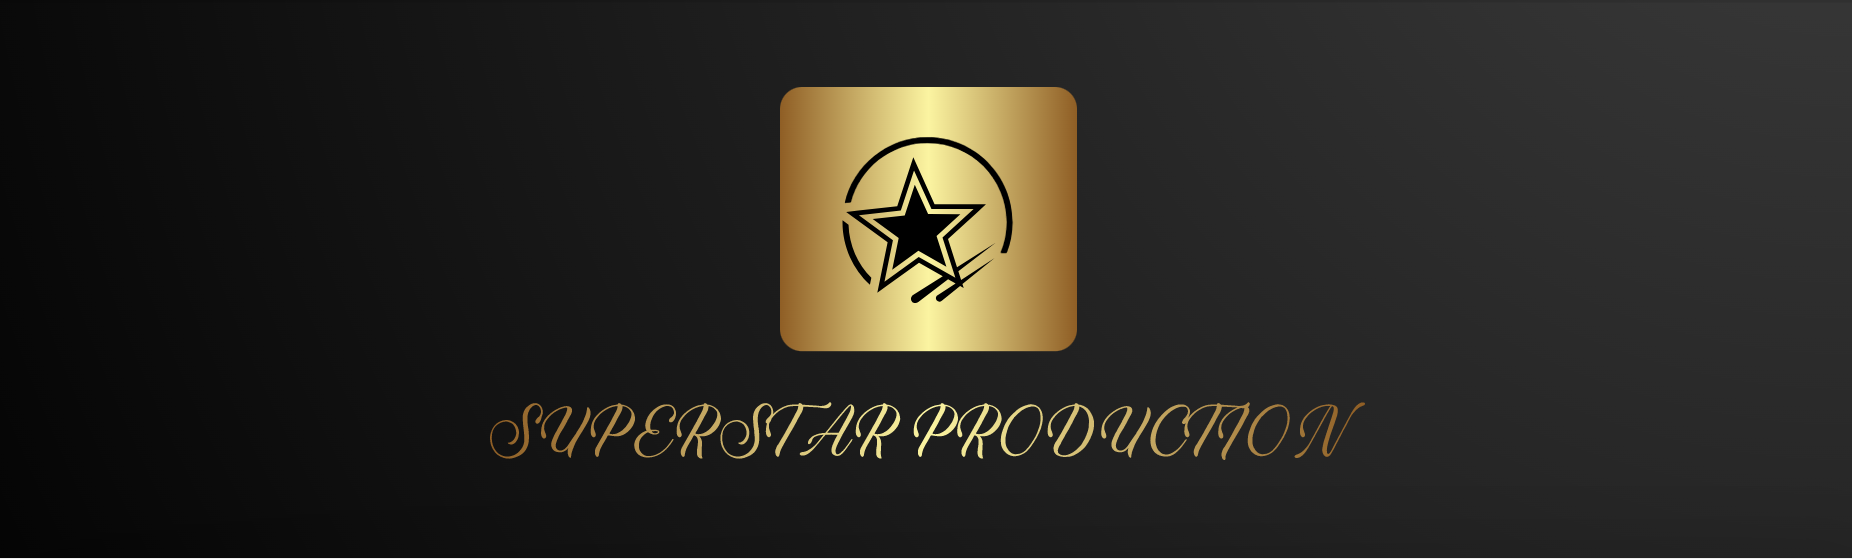
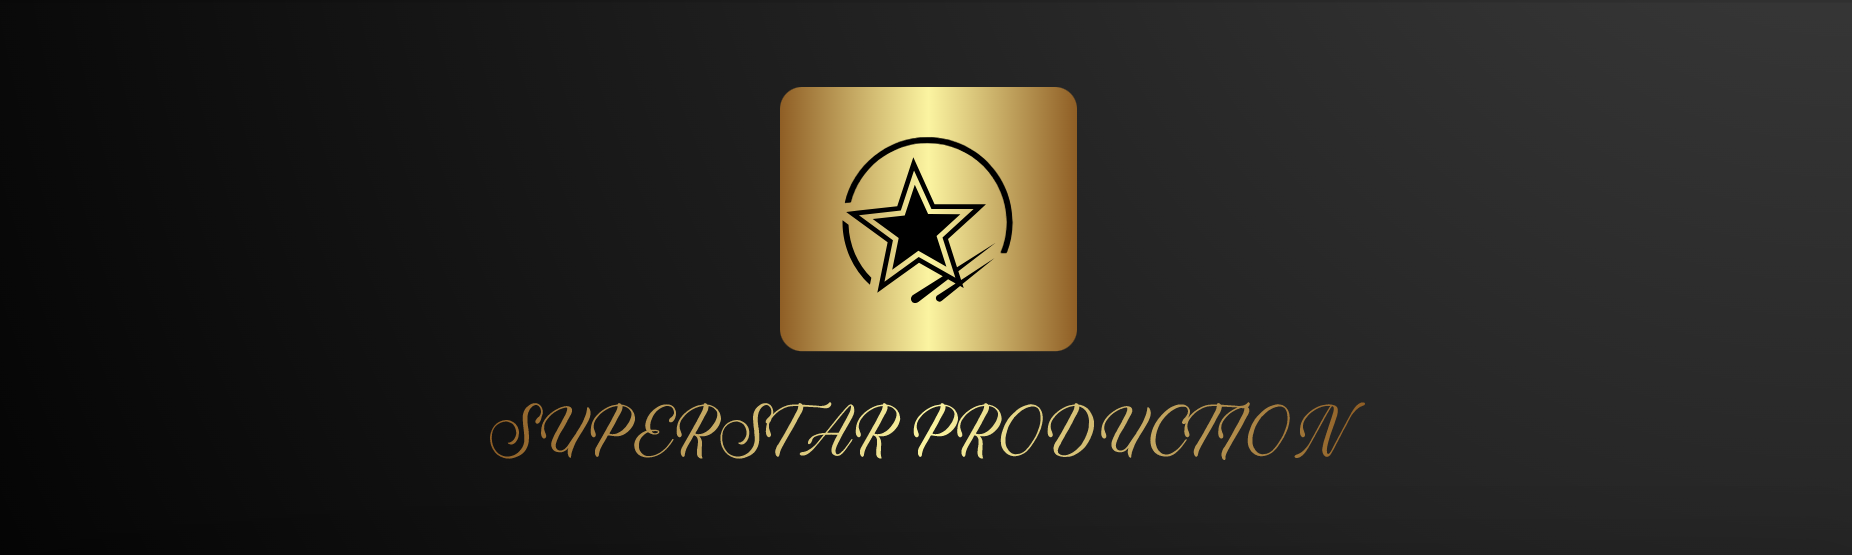
little changes to button and main brand picture

diff --git a/dist/index.html b/dist/index.html
@@ -150,7 +150,7 @@
         <div class="subscribe container">
           <div class="subscribe__body">
             <div class="subscribe__logo">
-              <img src="./img/logo.png" alt="" class="subscribe__logo">
+              <img src="./img/star-logo.svg" alt="" class="subscribe__logo">
             </div>
             <div class="subscribe__label">
               <h2>SUPERSTARPRODUCTION</h2>

diff --git a/src/index.html b/src/index.html
@@ -131,7 +131,7 @@
         <div class="subscribe container">
           <div class="subscribe__body">
             <div class="subscribe__logo">
-              <img src="./img/logo.png" alt="" class="subscribe__logo">
+              <img src="./img/star-logo.svg" alt="" class="subscribe__logo">
             </div>
             <div class="subscribe__label">
               <h2>SUPERSTARPRODUCTION</h2>

diff --git a/dist/css/main.css b/dist/css/main.css
@@ -277,7 +277,7 @@ html, body {
   display: flex;
   justify-content: center;
   align-items: center;
-  background-color: #CBB26A; }
+  background-color: #000; }
 
 .wave-btn {
   width: 280px;

diff --git a/src/partials/button/button.scss b/src/partials/button/button.scss
@@ -23,7 +23,7 @@ body {
   justify-content: center;
   align-items: center;
 
-  background-color: #CBB26A;
+  background-color: #000;
 }
 
 .wave-btn {
